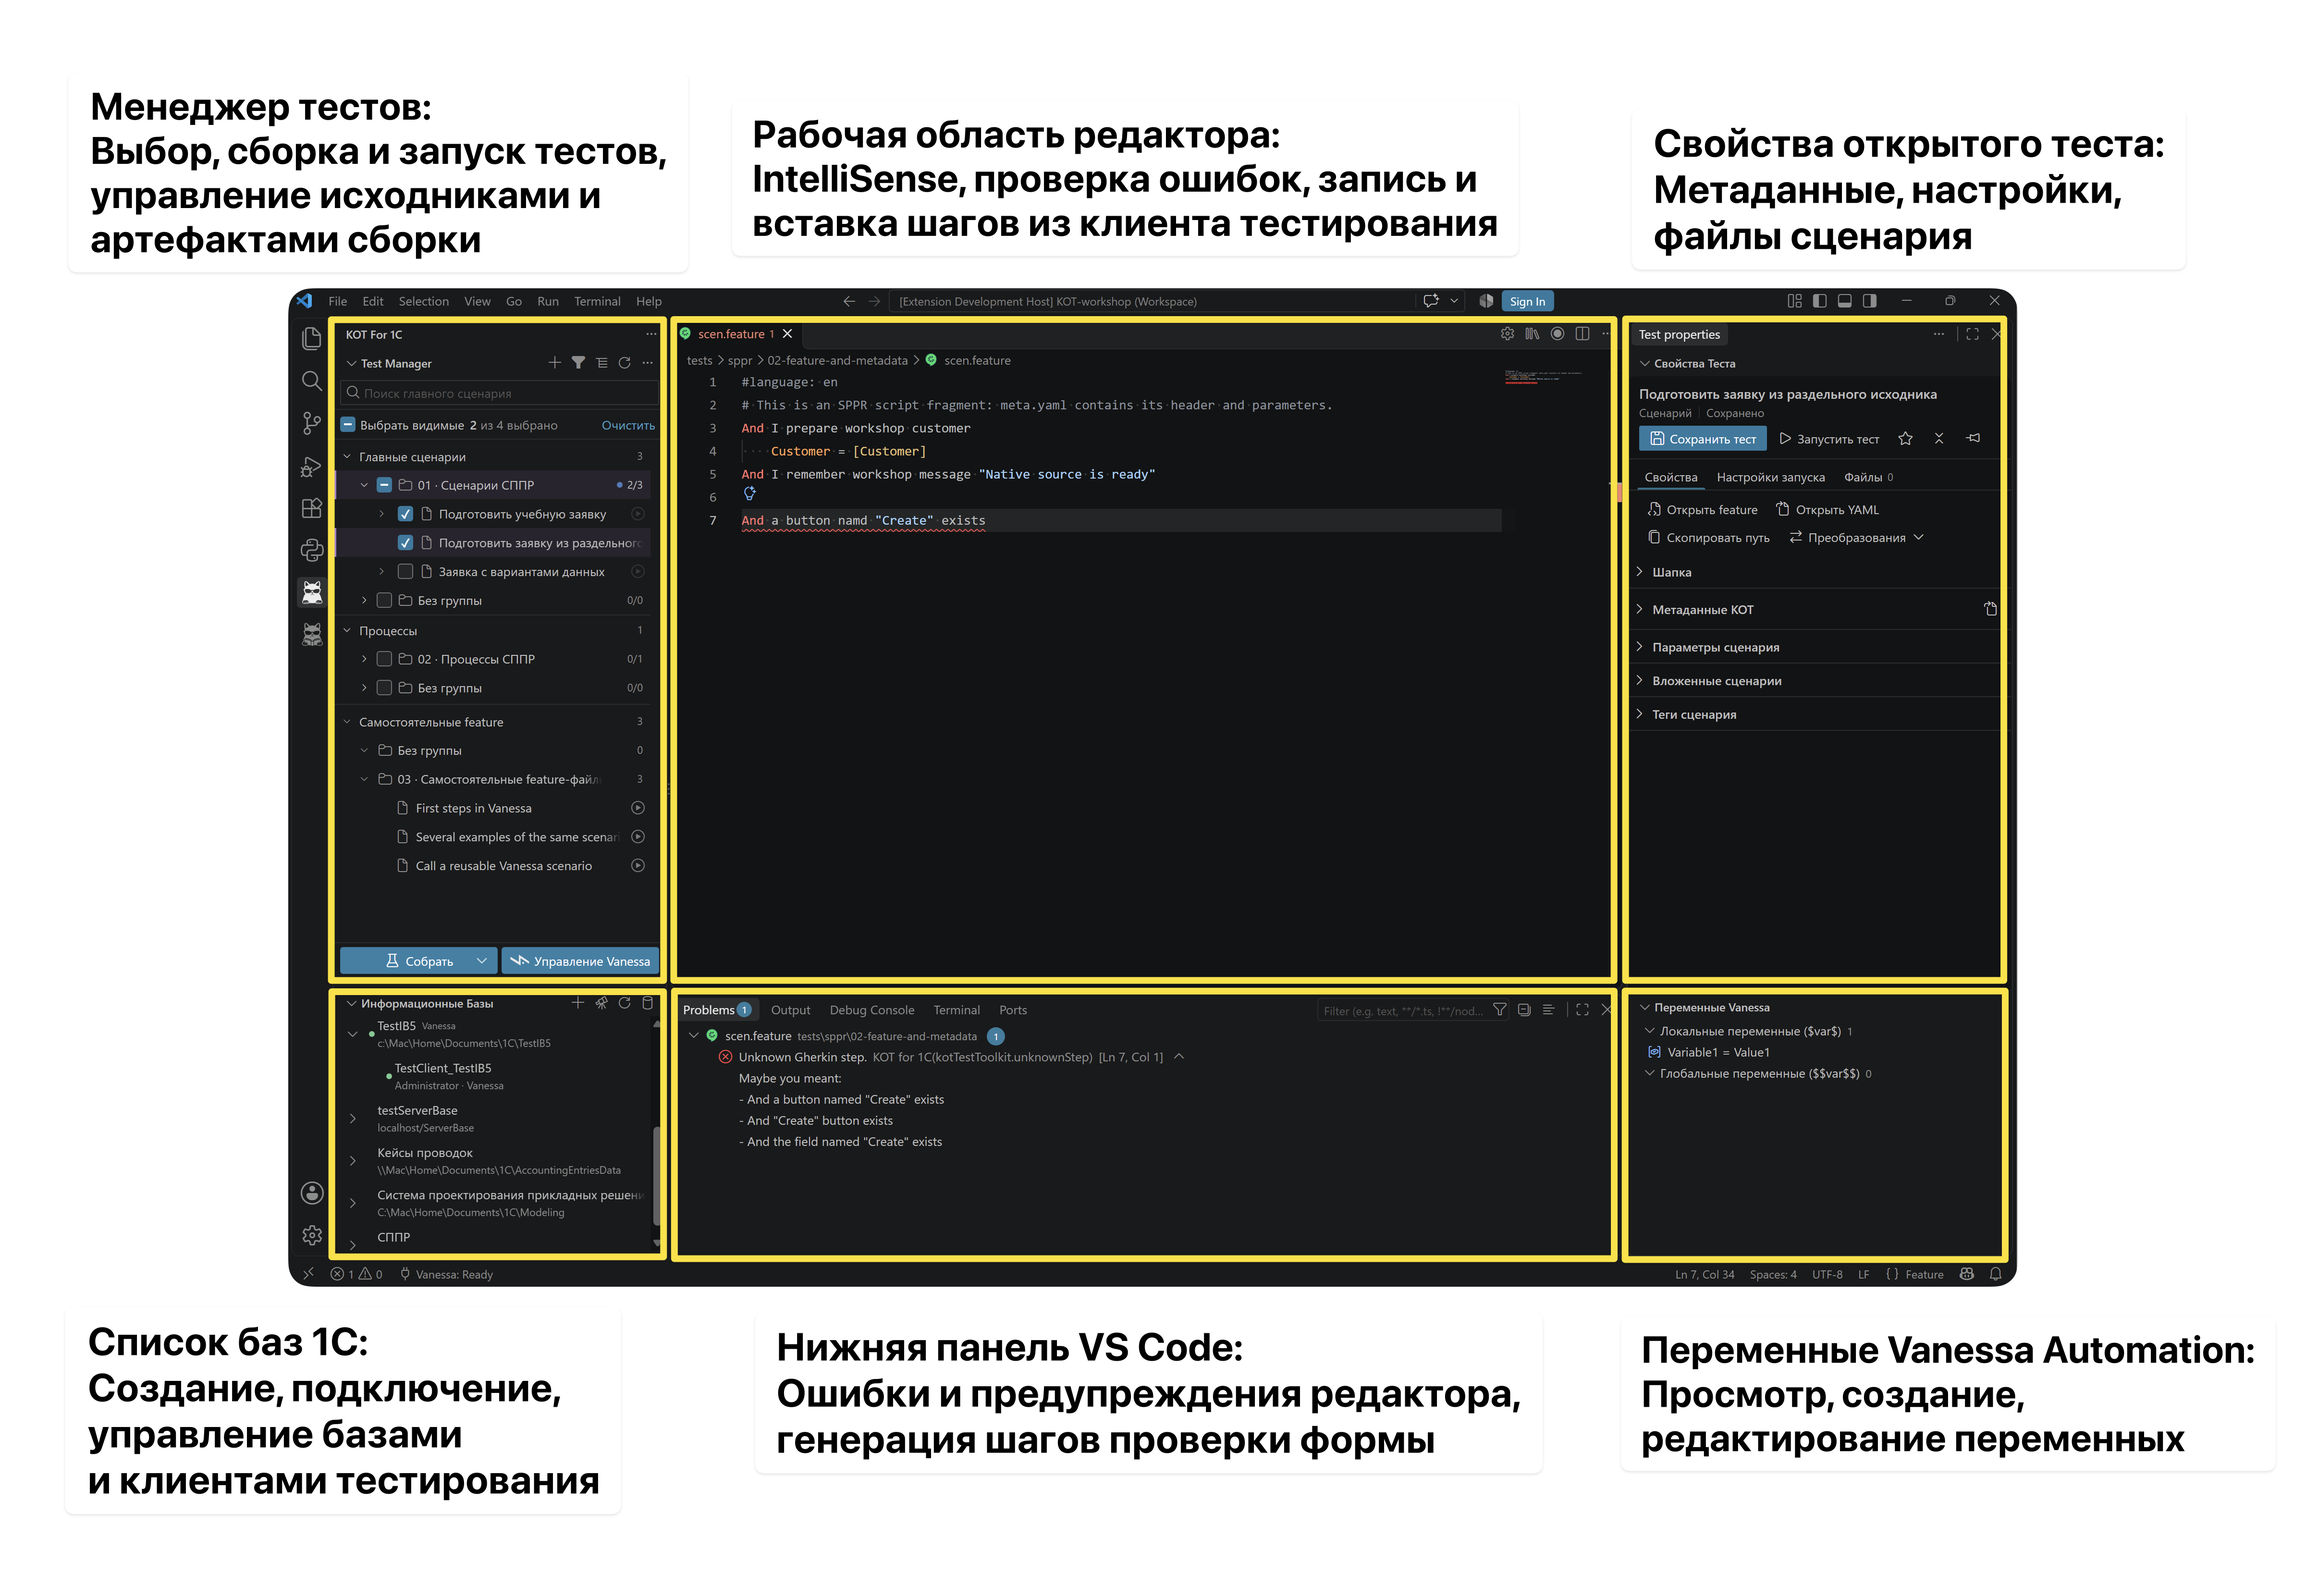
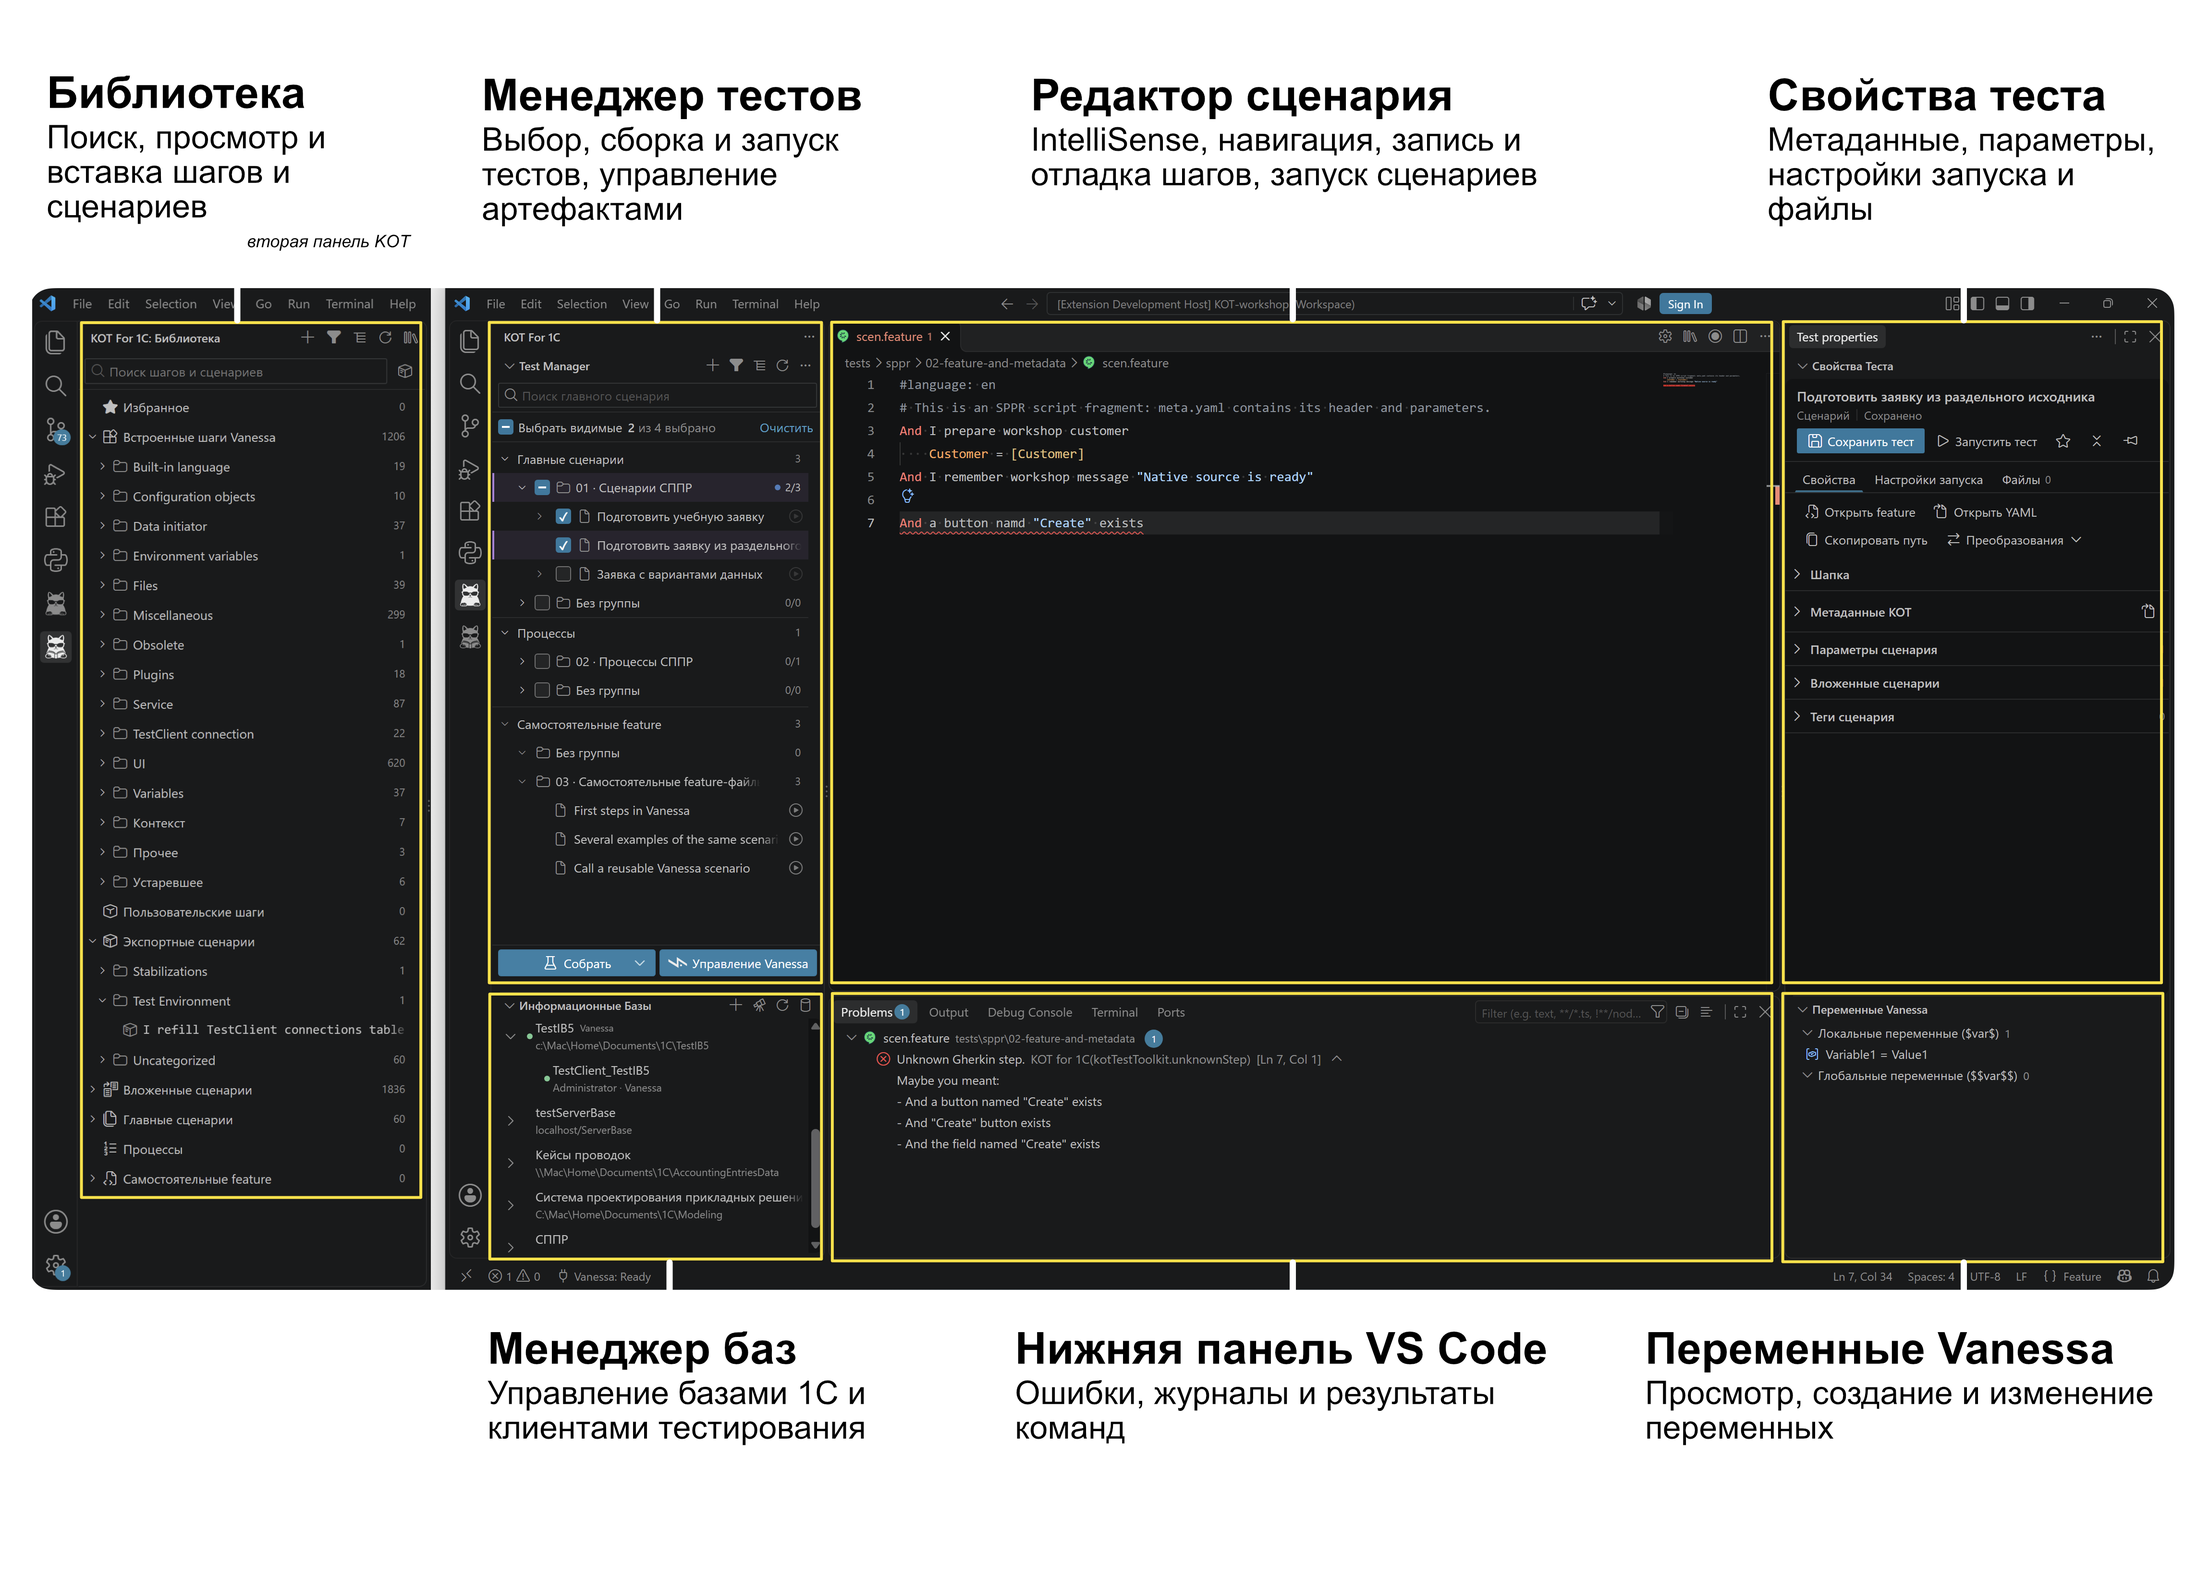
docs: IntelliSense info, update workspace-map

Changed region(s): [[0.0, 0.0311, 0.995, 0.9646], [0.7152, 0.0311, 0.9639, 0.1556]]

diff --git a/README.md b/README.md
@@ -33,6 +33,7 @@ KOT помогает писать сценарии СППР и Vanessa Automatio
 | Задача | Как помогает KOT | Подробнее |
 |---|---|---|
 | Написать первый тест | Мастер проекта, готовые примеры, создание сценария и выбор формата | [Начало работы](docs/guides/first-run-settings.md) |
+| Набрать шаг и его аргументы | IntelliSense шагов, сценариев, параметров и переменных; описание выбранной подсказки | [Автодополнение](docs/guides/editor-and-intellisense.md#работать-в-тексте) |
 | Найти нужный шаг | Библиотека Vanessa и проекта, категории, поиск по `!`, предпросмотр, вставка | [Библиотека и редактор](docs/guides/editor-and-intellisense.md) |
 | Читать чужие тесты | F12, ссылки на вызовы, описание параметров, подсветка зависимостей | [Навигация](docs/guides/navigation-and-files.md) |
 | Редактировать СППР | Один YAML или feature + метаданные YAML; свойства, параметры, вложенные вызовы | [Форматы](docs/guides/scenario-source-formats.md) |
@@ -68,18 +69,33 @@ KOT помогает писать сценарии СППР и Vanessa Automatio
 
 <a id="интерфейс-редактора"></a>
 <a id="диагностика-и-предложения-quick-fix"></a>
+<a id="редактор-в-работе"></a>
 
-## Редактор в работе
+## Редактор и IntelliSense
+
+### Подсказки шагов, параметров и переменных
+
+Начните вводить шаг или нажмите **Ctrl+Space**: KOT предложит подходящие определения и покажет описание выбранного варианта. Подсказки работают в YAML, `feature + meta` и самостоятельных feature с учётом доступных в каждом формате вызовов.
+
+![IntelliSense KOT: шаги Vanessa и вложенные сценарии с описаниями](docs/assets/intellisense-steps.png)
+
+- **Шаги и вызовы:** определения Vanessa, экспортные сценарии и, в СППР, вложенные сценарии проекта.
+- **Параметры СППР:** введите `[` для выбора объявленного параметра; в подсказке видно его значение по умолчанию.
+- **Переменные Vanessa:** `$` и `$$` вызывают подсказки локальных и глобальных переменных в соответствующем контексте.
+
+### Поиск по смыслу через `!`
 
 ![Запрос по смыслу через ! и подходящие шаги Vanessa](docs/assets/semantic-search.png)
 
 Введите `!` и слова о действии, выберите подходящий шаг и заполните его аргументы. Поиск работает локально, без AI-сервиса.
 
+### Аргументы из активной формы 1С
+
 ![Имена элементов живой формы в аргументе feature](docs/assets/feature-form-completion.png)
 
-Подключённая форма подсказывает подписи и технические имена элементов.
+Подключённая форма подсказывает подписи и технические имена элементов, а для подходящих аргументов — таблицы, колонки и текущие значения.
 
-[Пройти визуальный маршрут: от настройки до результата](docs/visual-tour.md)
+[Подробнее о подсказках и Библиотеке](docs/guides/editor-and-intellisense.md) · [Визуальный маршрут: от настройки до результата](docs/visual-tour.md)
 
 <a id="4-сборка-и-запуск-vanessa-automation"></a>
 

diff --git a/docs/screenshots.md b/docs/screenshots.md
@@ -54,7 +54,7 @@ https://github.com/user-attachments/assets/eaa3e411-c519-40f0-ac45-1028396db667
 
 ![Подсказки шагов, вложенных сценариев, параметров, переменных и данных формы](assets/intellisense-examples.png)
 
-Коллаж объединяет примеры из разных контекстов: начало шага, параметр СППР, переменная и аргумент, связанный с формой. [Как пользоваться подсказками](guides/editor-and-intellisense.md).
+Коллаж объединяет примеры из разных контекстов: начало шага, параметр СППР, переменная и аргумент, связанный с формой. Для главного README используется [сокращённый кадр шагов и вложенных сценариев](assets/intellisense-steps.png), предоставленный автором проекта. [Как пользоваться подсказками](guides/editor-and-intellisense.md).
 
 ### Диагностика и Quick Fix
 
